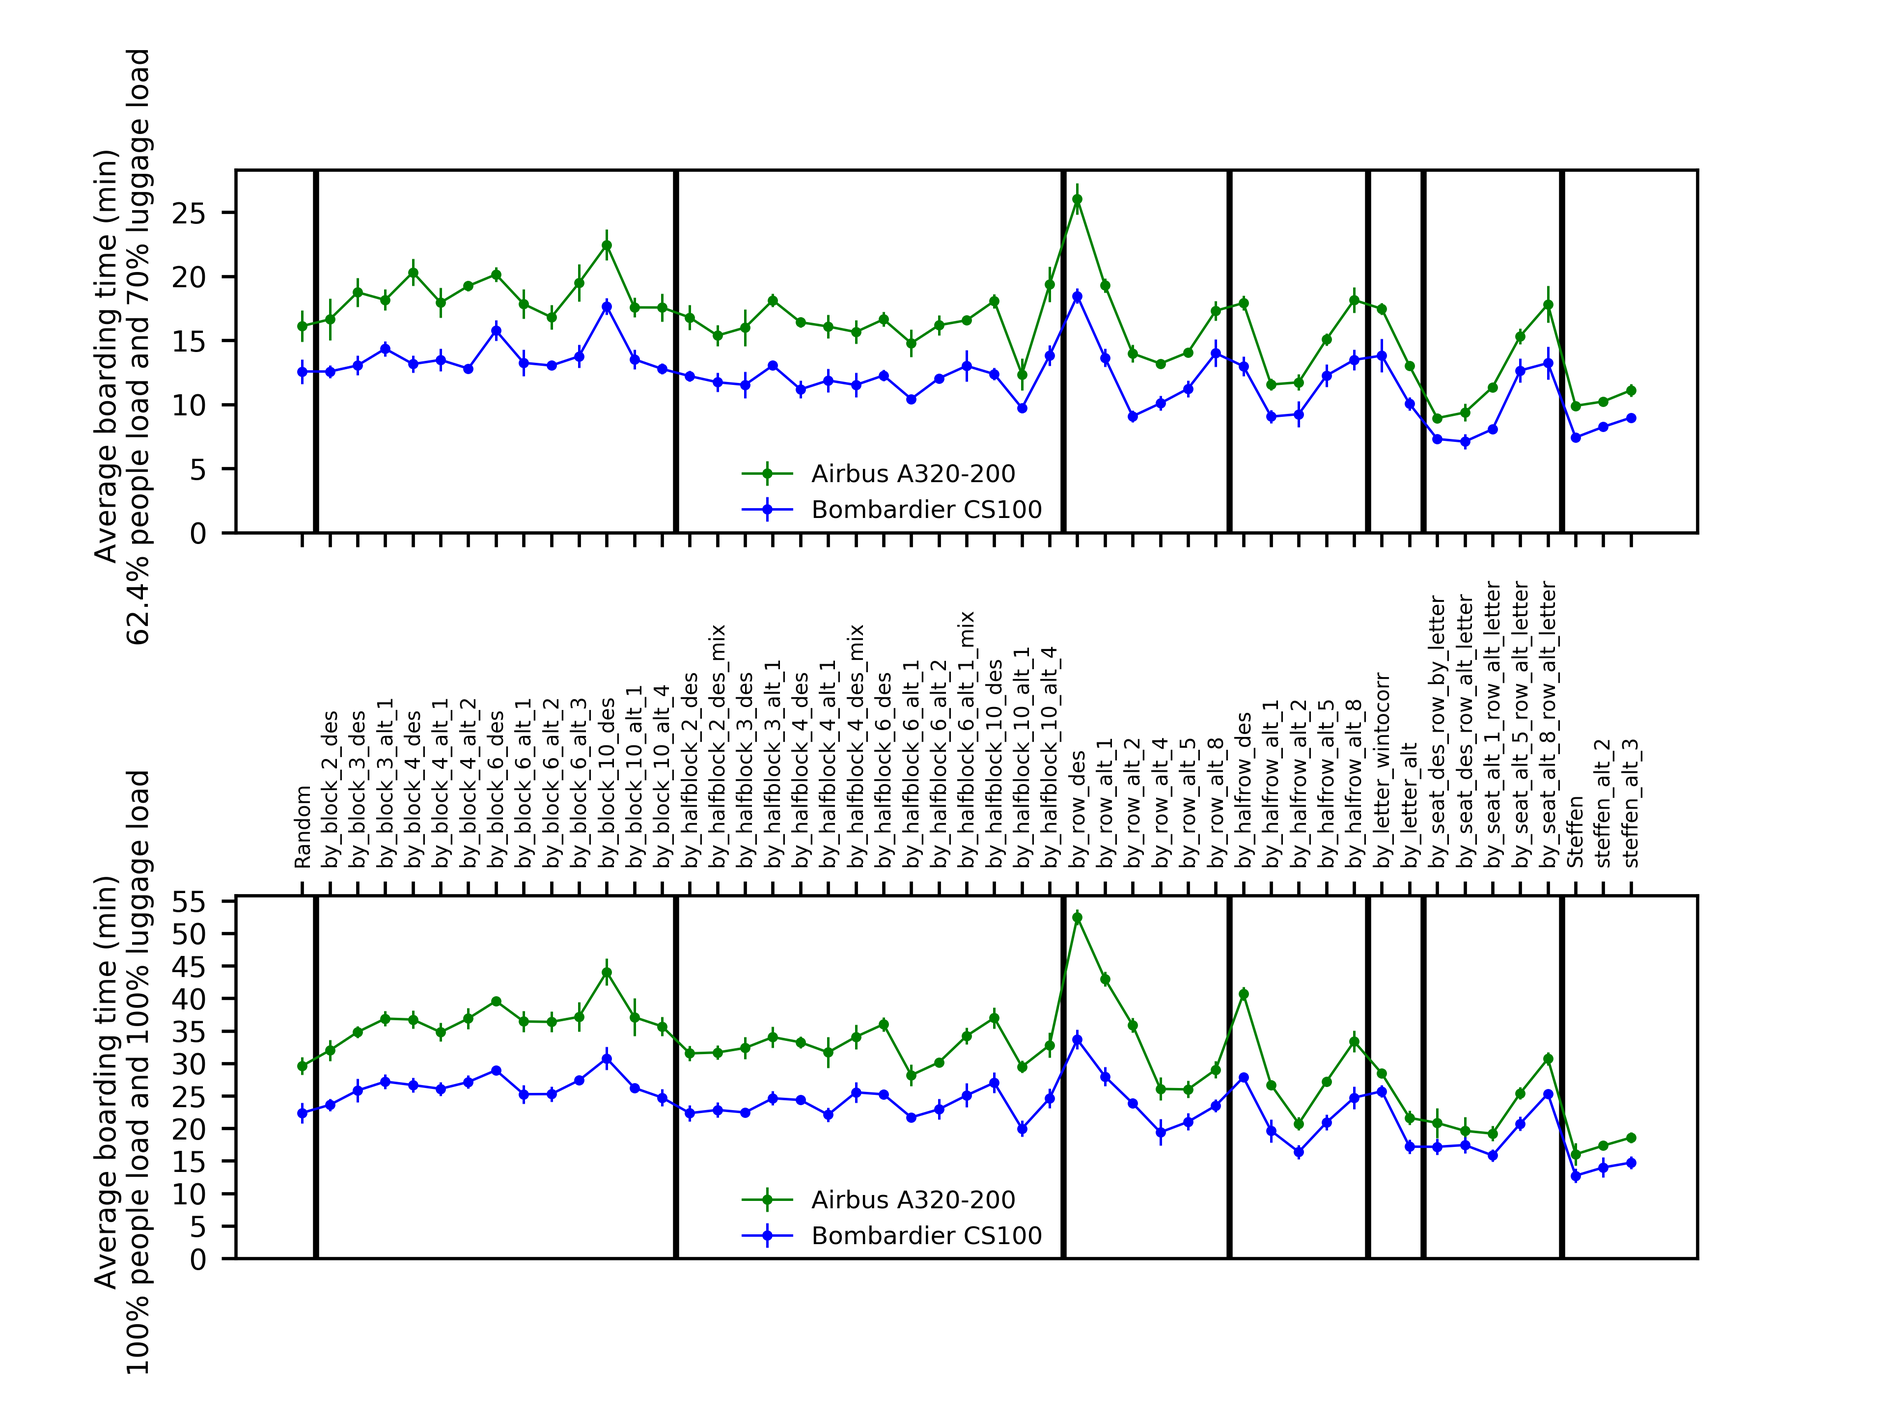
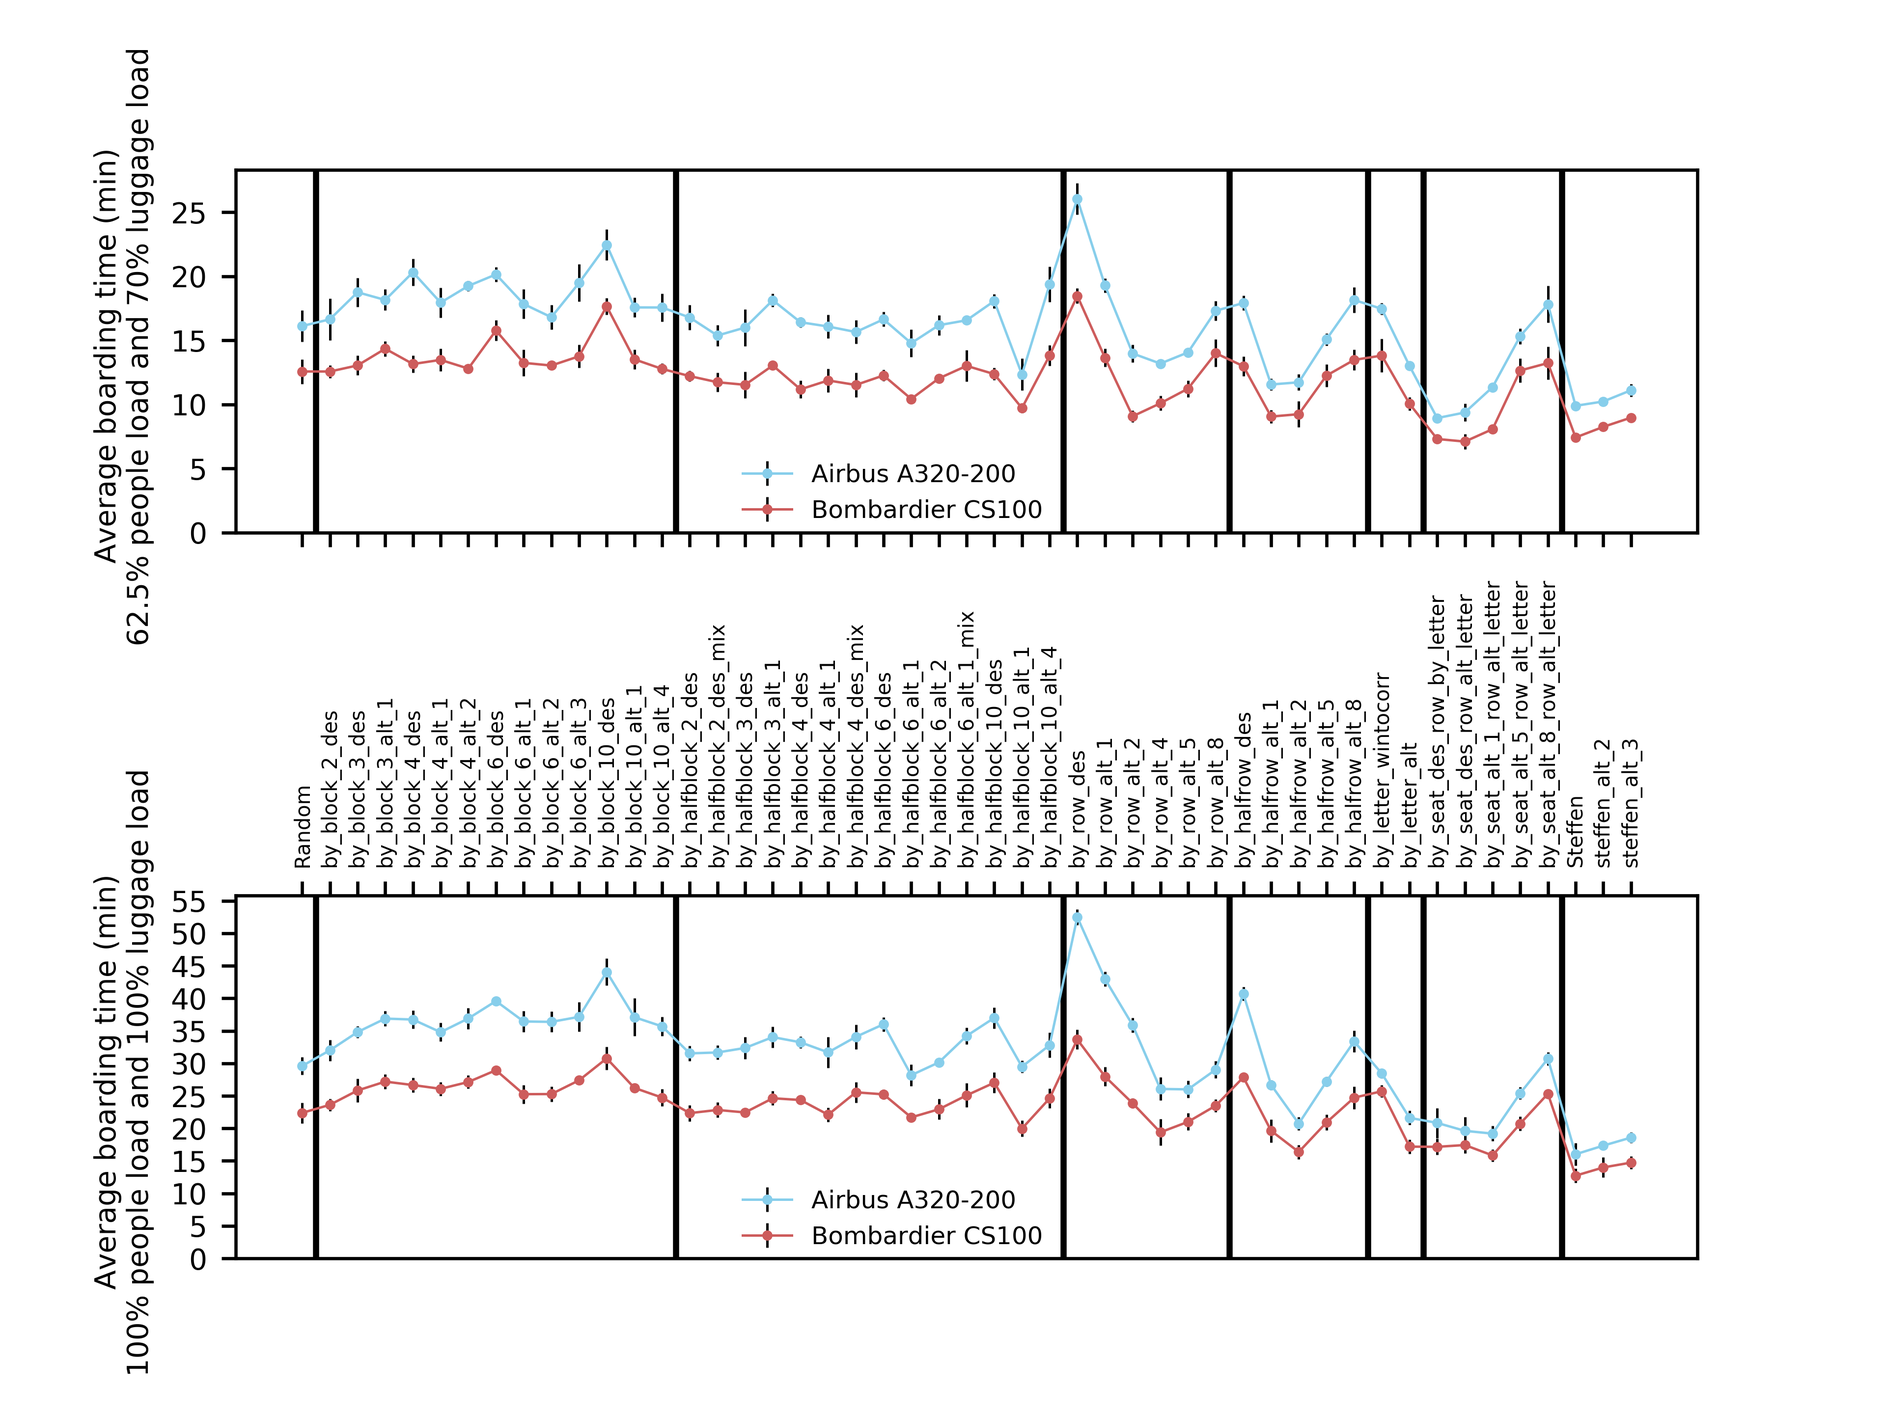
update lets get this done hoia

diff --git a/report/latex/report.tex b/report/latex/report.tex
@@ -19,7 +19,8 @@
 \usepackage{graphicx}
 \usepackage{amssymb}
 \usepackage{epstopdf}
-\usepackage{natbib}
+\usepackage{hyperref}
+%\usepackage{natbib}
 \usepackage{amssymb, amsmath}
 \DeclareGraphicsRule{.tif}{png}{.png}{`convert #1 `dirname #1`/`basename #1 .tif`.png}
 \title{Airplane Boarding}
@@ -122,7 +123,7 @@ Passengers get to the plane via bus or through a jet bridge and enter the plane 
 \\\\
 Once all passengers are seated, boarding is completed.
 
-\subsection{Our model}
+\subsection{Our model}\label{ourmodel}
 
 We want to gain insight on the efficiency of various boarding methods, and the impact of luggage load and passenger count on the time it takes individuals and all passengers to board a plane. Thus, what happens in the plane is crucial, while what is taking place in the airport, jet bridge, and bus barely have significant effects on the boarding time, other than determining the order in which people arrive at the plane door. We therefore decided to only model the events taking place inside the airplane. In order to still take into account the impact of different boarding strategies chosen by the gate agent, we assume the passengers all enter the plane in a certain order given by their seats. We will call such an order (of seats/passengers by seat) a boarding sequence.
 Although we have to keep track of which passengers are already sitting, it is not relvevant what the sitting passengers are doing. Hence, for our model, we focus only on what is happening in the aisle and discard most other irrelevant parts of the plane.
@@ -240,24 +241,30 @@ Boarding is completed as soon as every actor entered their seat.
 \section{Simulation Results and Discussion}
 \begin{figure}
 	\includegraphics[width=\linewidth]{../../code/AirplaneBoarding/data/figure1/figure1.png}
-	\caption{This figure compares the results from our model, using a similar airplane and load specifications, to the ones from the model used in \cite{beus}.}
+	\caption{This figure compares the results from our model, using a similar airplane and load specifications, to the ones from the model used by Van Landeghem and Beuselinck.}
 	\label{figure1}
 \end{figure}
 \subsection{Result Comparison - Our model vs. Van Landeghem's and Beuselinck's Model}
 In order to validate the correctness of our model we compare the different boarding times resulting from employing the same boarding methods as was done in \cite{beus} with a similar airplane and load level. The airplane used in both models are equivalent in the number of rows they have (23) and the number of seats in each row (6), with the only minor exception that the plane they used only had 3 seats in the first and last row. However this difference is very minor, so we decided to neglect it. The passenger load level, so the percentage of occupied seats in the aircraft, are in both cases identical at $100\%$. Furthermore the luggage load level in the simulation from Van Landeghem and Beuselinck was set to normal, which we had to translate into the percentage of occupied overhead compartment space, as our model handles luggage differently to theirs. We believe that when the plane is completely booked out, it is reasonable to assume that $90\%$ of available overhead compartment space is occupied with a normal load level.
 
-In total for each of the 46 boarding methods (excluding method "by\_block\_B-E" because it differentiates with business class in addition to economy class, which, for given reasons, we don't do) we performed 5 trials, in order to have a small sample to calculate the mean time taken for each boarding method within a $95\%$ confidence interval.
-The results for the confidence intervals of the total boarding times and differences to Van Landeghem's and Beuselinck's results (their minus our) are displayed in Figure \ref{figure1}. For numerical values, please check table \textit{Insert reference here} in the Appendix.
+In total for each of the 46 boarding methods used in \cite{beus}(excluding method "by\_block\_B-E" because it differentiates with business class in addition to economy class, which, for given reasons, we don't do) we performed 5 trials, in order to have a small sample to calculate the mean time taken for each one within a $95\%$ confidence interval.
+The results for the confidence intervals of the total boarding times and differences to Van Landeghem's and Beuselinck's results (their minus our) are displayed in Figure \ref{figure1}, which is divided into two subplots. The plot at the top shows for each method the average boarding time in minutes with a 95\% confidence interval (error bars) and the plot at the bottom the differences in results (Van Landeghem's and Beuselinck's minus Our). The vertical black lines divide the different boarding methods into their respective classes. The blue data is from the "base model" from \cite{beus} and the green from our model. For numerical values, please check table \textit{Insert reference here} in the Appendix. 
 Analysing the results lead to following conclusions:
 
 
-The first conclusion that can be drawn is that the average boarding times for our model are generally lower with only a few exceptions. This phenomenon is most likely caused by the different ways the two models handle luggage. In our model the time it takes to store luggage inside a specific compartment does not increase with the amount of luggage that is already inside, which is the case for the other model. Furthermore, not everyone necessarily has any luggage with them because the number of actors (138) is much larger than the total amount of hand-luggage (75) distributed between them (no one more than 2 pieces), which means there are plenty which can directly move to their seat. In the case of the other model, every actor has between 1 and 3 pieces of luggage, so in total almost at least twice the amount of carry-on luggage and there is no one without any. These two aspects further support the results. On the other hand, compartments can be full, not allowing any more actors to store any of his carry-on inside of it, which means those actors have to find other free spots, which takes time and can cause interferences.  To what extend each of these aspects impacts the result can not be said as we have not enough information about the model used in \cite{beus}. 
+The first conclusion that can be drawn is that the average boarding times for our model are generally lower with only a few exceptions. This phenomenon is most likely caused by the different ways the two models handle luggage. In our model the time it takes to store luggage inside a specific compartment does not increase with the amount of luggage that is already inside, which is the case for the other model. Furthermore, not everyone necessarily has any luggage with them because the number of actors (138) is much larger than the total amount of hand-luggage (75) distributed between them (no one more than 2 pieces), which means there are plenty which can directly move to their seat. In the case of the other model, every actor has between 1 and 3 pieces of luggage, so in total almost at least twice the amount of carry-on luggage and there is no one without any. These two aspects further support the observed results. On the other hand, compartments can be full, not allowing any more actors to store any of his carry-on inside of it, which means those actors have to find other free spots, which takes time and can cause interferences.  As mentioned earlier, it is not entirely clear whether the other model implements this possibility. To what extend each of these aspects impacts the result can not be said as we have not enough information about the model used in \cite{beus}. 
 	
 The two exceptions to this observations occur in the class "by\_seat", but only with the two that do not alternate between rows. The reason for that is most likely that the actors in our model first always try to store their luggage in the overhead compartment above their seat and if possible start storing at the beginning of it, not allowing the actor behind to access the same compartment. So if actors that are right behind each other in the boarding sequence have seats in the same or adjacent rows, they might obstruct one another when they both have hand-luggage. This is would also explain why the exception is only seen in the two methods within class "by\_seat" that do not alternate between rows, so adjacent actors in the boarding sequence have adjacent rows. This attribute of the actors only negatively impacted the difference in time in one class because in all the others we look at larger groups, which are random within, and not at individual seats and arrange those. Because the exception to the phenomenon, that the times of our model are generally lower, only occurs in those two methods and is caused by something reasonable, the validity of our model is not impacted. 
 
-Now, in order to be able to conclude that our model is at least as valid as the one used by Van Landeghem's and Beuselinck's, we need to evaluate the impact that the found phenomenon has. 
+Now, in order to be able to conclude that our model is at least as valid as the one used by Van Landeghem's and Beuselinck's, we need to evaluate the impact that the found phenomenon has and whether its cause is justifiable. 
+The general trend of the data is retained by our model because within each class, especially the larger ones, the difference in boarding times is fairly constant, which again can be seen in the bottom diagram of Figure \ref{figure1}. Furthermore, the overall relationships between boarding methods are generally preserved. So, for example, whenever the relationship between the boarding times of two adjacent methods in the "base model"(in Figure \ref{figure1}), is positive/negative (the blue line has gradient greater/smaller zero), then the relationship between the methods in our model are also positive/negative (the green line also has a gradient greater/smaller zero). For those reasons and the ones justifying the assumptions we made in section \ref{ourmodel}, we believe that there is enough reason to safely assume that our model realistically simulates reality using a certain level of abstraction.  
 
-First of all, the general trend of the data is retained by our model because within each class, especially the larger ones, the difference in boarding times is fairly constant, which again can be seen in the bottom diagram of Figure \ref{figure1}. 
+\subsection{Comparison of different boarding methods - Bombardier CS100 \& Airbus A320-200}
+\begin{figure}
+	\includegraphics[width=\linewidth]{../../code/AirplaneBoarding/data/figure2/figure2.png}
+	\caption{This figure displays the results calculated our model for the time it takes to board the Bombardier CS100 and the Airbus A320-200 using different boarding methods under a low/high load configuration}
+	\label{figure2}
+\end{figure}
 
 
 \section{Summary and Outlook}

diff --git a/code/AirplaneBoarding/figures.py b/code/AirplaneBoarding/figures.py
@@ -62,14 +62,14 @@ def figure2_two_plane_comparison(labels, boarding_data_full_bombardier, boarding
     data_normal_airbus = get_confidence_interval_and_mean(boarding_data_normal_airbus, n, m)
     data_normal_bombardier = get_confidence_interval_and_mean(boarding_data_normal_bombardier, n, m)
 
-    ax1.errorbar(np.arange(n), data_normal_airbus[0], yerr=data_normal_airbus[1], fmt='go-', markersize=1.5,
-                 linewidth=0.6, label='Airbus A320-200', ecolor='g', capthick=2)
-    ax1.errorbar(np.arange(n), data_normal_bombardier[0], yerr=data_normal_bombardier[1], fmt='bo-',
-                 markersize=1.5, linewidth=0.6, label='Bombardier CS100', ecolor='b', capthick=2)
-    ax2.errorbar(np.arange(n), data_full_airbus[0], yerr=data_full_airbus[1], fmt='go-',
-                 markersize=1.5, linewidth=0.6, label='Airbus A320-200', ecolor='g', capthick=2)
-    ax2.errorbar(np.arange(n), data_full_bombardier[0], yerr=data_full_bombardier[1], fmt='bo-',
-                 markersize=1.5, linewidth=0.6, label='Bombardier CS100', ecolor='b', capthick=2)
+    ax1.errorbar(np.arange(n), data_normal_airbus[0], yerr=data_normal_airbus[1], fmt='o-', color='SkyBlue', markersize=1.5,
+                 linewidth=0.6, label='Airbus A320-200', ecolor='k', capthick=2)
+    ax1.errorbar(np.arange(n), data_normal_bombardier[0], yerr=data_normal_bombardier[1], fmt='o-',color='IndianRed',
+                 markersize=1.5, linewidth=0.6, label='Bombardier CS100', ecolor='k', capthick=2)
+    ax2.errorbar(np.arange(n), data_full_airbus[0], yerr=data_full_airbus[1], fmt='o-',color='SkyBlue',
+                 markersize=1.5, linewidth=0.6, label='Airbus A320-200', ecolor='k', capthick=2)
+    ax2.errorbar(np.arange(n), data_full_bombardier[0], yerr=data_full_bombardier[1], fmt='o-',color='IndianRed',
+                 markersize=1.5, linewidth=0.6, label='Bombardier CS100', ecolor='k', capthick=2)
 
     ax1.set_ylim(bottom=0)
     ax2.set_ylim(bottom=0)
@@ -87,7 +87,7 @@ def figure2_two_plane_comparison(labels, boarding_data_full_bombardier, boarding
     ax2.axvline(x=38.5, color='k')
     ax2.axvline(x=40.5, color='k')
     ax2.axvline(x=45.5, color='k')
-    ax1.set_ylabel('Average boarding time (min) \n 62.4% people load and 70% luggage load', fontsize=7)
+    ax1.set_ylabel('Average boarding time (min) \n 62.5% people load and 70% luggage load', fontsize=7)
     ax1.legend(loc=(0.34, 0), fontsize=6, frameon=False)
     ax2.set_ylabel('Average boarding time (min) \n 100% people load and 100% luggage load', fontsize=7)
     ax2.legend(loc=(0.34, 0), fontsize=6, frameon=False)
@@ -105,24 +105,36 @@ def figure2_two_plane_comparison(labels, boarding_data_full_bombardier, boarding
     plt.show()
 
 
-def figure3_two_plane_individual_times(labels, individual_boarding_data_full_bombardier_fastest_methods, individual_boarding_data_full_airbus_fastest_methods, n, m):
+def figure3_two_plane_individual_times(labels, chosen, individual_boarding_data_full_bombardier, individual_boarding_data_full_airbus, n, m):
     fig, ax = plt.subplots()
     size = 0.35
-    index = np.arange(n)
+    index = np.arange(len(chosen))
 
-    data_individual_bombardier = get_confidence_interval_and_mean(individual_boarding_data_full_bombardier_fastest_methods, n, m)
-    data_individual_airbus = get_confidence_interval_and_mean(individual_boarding_data_full_airbus_fastest_methods, n, m)
+    data_individual_bombardier = get_confidence_interval_and_mean(individual_boarding_data_full_bombardier, n, m)
+    data_individual_airbus = get_confidence_interval_and_mean(individual_boarding_data_full_airbus, n, m)
+    data_individual_bombardier_best = np.zeros((2, len(chosen)), dtype=float)
+    data_individual_airbus_best = np.zeros((2, len(chosen)), dtype=float)
+    chosen_labels = []
+    i = 0
+    for j in range(0, n):
+        if i < len(chosen) and chosen[i] == j:
+            data_individual_bombardier_best[0][i] = data_individual_bombardier[0][j]
+            data_individual_bombardier_best[1][i] = data_individual_bombardier[1][j]
+            data_individual_airbus_best[0][i] = data_individual_airbus[0][j]
+            data_individual_airbus_best[1][i] = data_individual_airbus[1][j]
+            chosen_labels.append(labels[j])
+            i += 1
 
-    ax.bar(index - size/2, data_individual_bombardier[0], size, yerr=data_individual_bombardier[1],
-                   color='SkyBlue', label='Bombardier CS100')
-    ax.bar(index + size/2, data_individual_airbus[0], size, yerr=data_individual_airbus[1],
-                    color='IndianRed', label='Airbus A320-200')
-    ax.set_ylabel('Average individual boarding times in minutes')
-    ax.set_title('Average individual boarding times for the fastest boarding method in each category '
-                 'with the Airbus A320-200 and the Bombardier CS100')
-    ax.set_xticks(index)
-    ax.set_xticklabels(labels)
-    ax.legend()
+    ax.bar(index - size/2, data_individual_bombardier_best[0], size, yerr=data_individual_bombardier_best[1],
+                   color='IndianRed', label='Bombardier CS100')
+    ax.bar(index + size/2, data_individual_airbus_best[0], size, yerr=data_individual_airbus_best[1],
+                    color='SkyBlue', label='Airbus A320-200')
+    ax.set_ylabel('Average individual boarding times (min)')
+    plt.xticks(index, chosen_labels, fontsize=6, rotation='90')
+    ax.legend(loc=0, fontsize=6, frameon=False)
+    plt.subplots_adjust(hspace=1)
+    #plt.gcf().subplots_adjust(bottom=0.3)
+    plt.tight_layout()
     plt.savefig("data/figure3/figure3.png", format='png', dpi=600)
     plt.show()
 
@@ -193,18 +205,17 @@ def get_figure_2():
 
 
 def get_figure_3():
-    #a = np.loadtxt('data/figure3/times_load_70_passengers_625_plane_1_individual.csv', delimiter=',')
-    #b = np.loadtxt('data/figure3/times_load_70_passengers_625_plane_2_individual.csv', delimiter=',')
-    c = np.loadtxt('data/figure3/times_load_100_passengers_100_plane_1_individual.csv', delimiter=',')
-    d = np.loadtxt('data/figure3/times_load_100_passengers_100_plane_2_individual.csv', delimiter=',')
+    a = np.loadtxt('data/figure3/times_load_100_passengers_100_plane_1_individual.csv', delimiter=',')
+    b = np.loadtxt('data/figure3/times_load_100_passengers_100_plane_2_individual.csv', delimiter=',')
     labels_list = []
+    chosen = [0, 1, 22, 31, 36, 40, 43, 46]
     f = open("test_methods.txt", "r+")
     lines = f.readlines()
     for i in range(0, 49):
         line = lines[i].split()
         labels_list.append(line[0])
     f.close()
-    figure3_two_plane_individual_times(labels_list, c, d, 49, 5)
+    figure3_two_plane_individual_times(labels_list, chosen, a, b, 49, 5)
 
 def get_figure_4():
     random = np.loadtxt('data/figure4/loads_random.csv', delimiter=',')
@@ -214,4 +225,4 @@ def get_figure_4():
     figure4_effect_of_luggage_on_times(labels, random, steffen, 21, 5)
 
 
-get_figure_1()
+get_figure_2()
